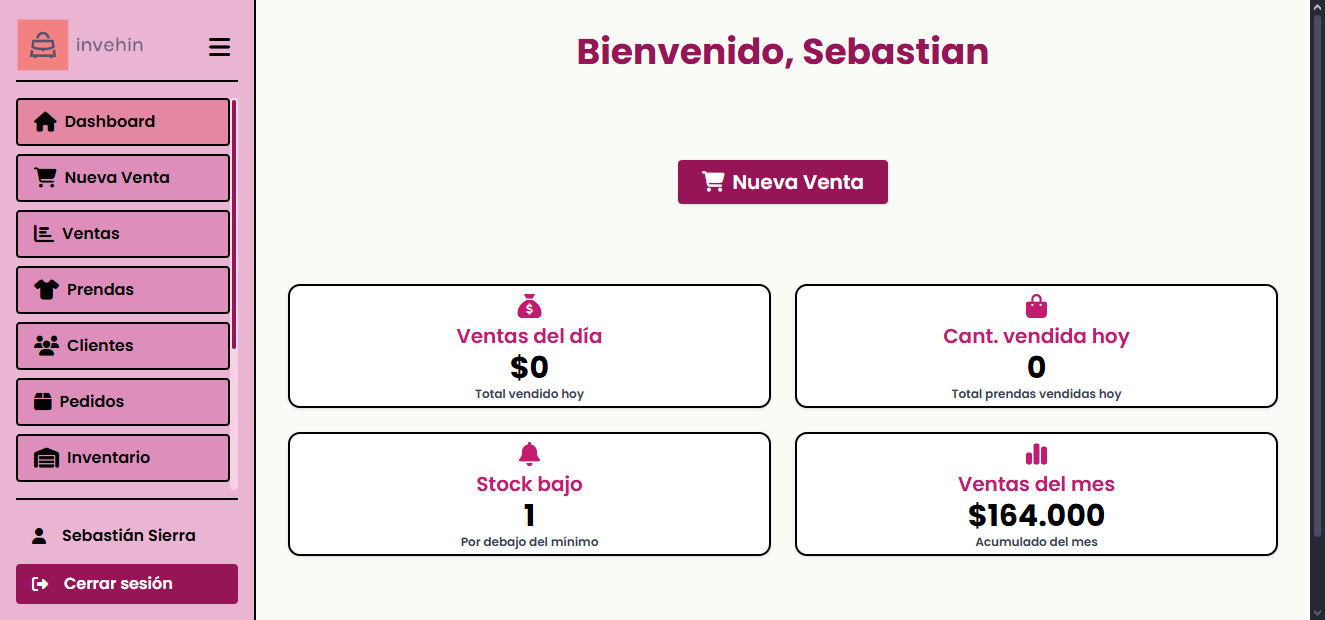
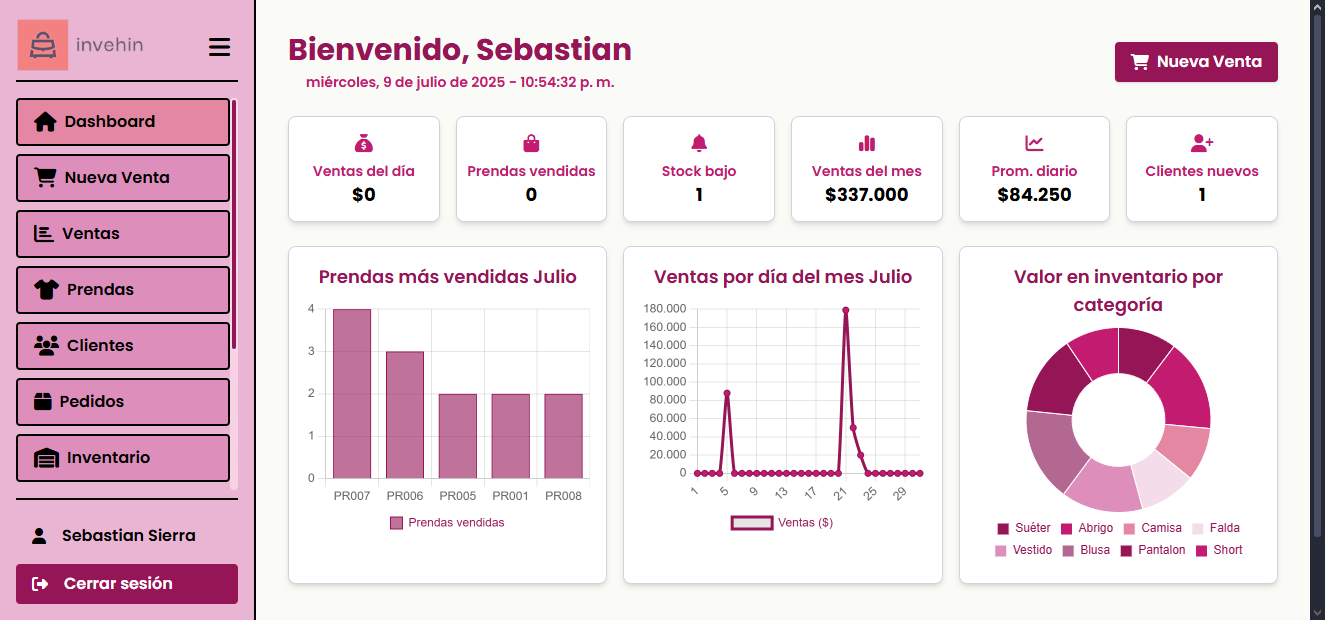
feat(docs): actualizar documentación y agregar manuales docs(readme): agregar sección sobre funcionalidades adicionales docs(licencia): actualizar sección de licencia con detalles de uso no comercial style(assets): agregar imágenes de productos y actualizar dashboard

diff --git a/README.md b/README.md
@@ -21,8 +21,8 @@ Este sistema se encuentra actualmente en desarrollo activo y en proceso de mejor
 ## 📄 Documentación
 
 - [📸 Capturas del sistema](docs/Capturas.md)
-- [🧠 Manual técnico (desarrolladores)](docs/ManualTecnico.md) *(próximamente)*
-- [👥 Manual de usuario (uso del sistema)](docs/ManualUsuario.md) *(próximamente)*
+- [🧠 Manual técnico (desarrolladores)](docs/ManualTecnico.md)
+- [👥 Manual de usuario (uso del sistema)](docs/ManualUsuario.md)
 - [🧑 Autores y créditos](docs/Autores.md)
 
 ---
@@ -61,9 +61,9 @@ Este sistema se encuentra actualmente en desarrollo activo y en proceso de mejor
 
 ## 💥 Vistas principales
 
-| Login                         | Dashboard                      | Registrar Venta                |
+| Dashboard                         | Listado de Prendas                      | Registrar Venta                |
 |------------------------------|--------------------------------|--------------------------------|
-| ![Login](assets/login.png)   | ![Dashboard](assets/dashboard.png) | ![Registrar Venta](assets/registrar-venta.png) |
+| ![Dashboard](assets/dashboard.png)   | ![Dashboard](assets/listado-prendas.png) | ![Registrar Venta](assets/registrar-venta.png) |
 
 ---
 
@@ -76,5 +76,25 @@ Para más información o colaboración: [sebsirra13@gmail.com](mailto\:sebsirra1
 
 ## 📜 Licencia
 
-Proyecto realizado como ejercicio de desarrollo y consolidación de habilidades en el diseño de sistemas de información empresariales.\
-Se prohíbe su uso con fines comerciales sin autorización expresa.
+Este proyecto está realizado como un ejercicio de desarrollo y consolidación de habilidades en el diseño de sistemas de información empresariales.
+
+### Términos y Condiciones
+
+El uso de este software está permitido únicamente con fines educativos y no comerciales. El proyecto es de **código abierto**, pero se prohíbe su uso con fines comerciales sin una **autorización expresa** de los autores.
+
+### Licencia
+
+Este proyecto se distribuye bajo la **Licencia Creative Commons Attribution-NonCommercial 4.0 International License (CC BY-NC 4.0)**.
+
+#### Condiciones principales de la licencia CC BY-NC 4.0:
+
+1. **Uso del código**: Puedes usar, modificar y distribuir el código **siempre que sea con fines no comerciales**.
+2. **Propiedad intelectual**: El software no transfiere derechos de propiedad intelectual, y se mantiene la autoría de los desarrolladores.
+3. **Distribución**: Si distribuyes el código, debes incluir un archivo de licencia que detalle los términos de la **Licencia CC BY-NC 4.0**.
+4. **Marca registrada**: El uso de la marca o nombre del proyecto está prohibido sin permiso por escrito.
+
+### Limitación de responsabilidad
+
+El proyecto se ofrece "tal cual" y no ofrece garantías explícitas ni implícitas de ningún tipo. Los autores no se hacen responsables de ningún daño, pérdida o inconveniente resultante del uso del software.
+
+Para más detalles sobre la licencia, consulta el archivo completo en [Creative Commons BY-NC 4.0 License](https://creativecommons.org/licenses/by-nc/4.0/) o el archivo [**`LICENSE.txt`**](LICENSE.txt) incluido en este repositorio.

diff --git a/docs/ManualTecnico.md b/docs/ManualTecnico.md
@@ -1,0 +1,74 @@
+
+# 🧠 Manual Técnico – INVEHIN
+
+## 🛠 Requisitos del Proyecto
+
+Este proyecto está construido usando las siguientes tecnologías:
+
+- **Java 21** para el desarrollo backend.
+- **JSP & Servlets** para la arquitectura web.
+- **Apache Tomcat** como servidor web.
+- **MySQL 8** para la base de datos.
+- **JDBC** para la conexión entre el backend y la base de datos.
+- **Apache POI & iTextPDF** para la generación de reportes en formato Excel y PDF.
+
+## 📂 Estructura del Proyecto
+
+El proyecto está organizado en las siguientes carpetas:
+
+- **`src/`**: Contiene todo el código fuente de Java.
+    - **`Entidades/`**: Clases que representan las entidades del sistema.
+    - **`Interfaces/`**: Interfaces que definen los contratos del sistema.
+    - **`Logica/`**: Clases de la lógica del negocio.
+    - **`servlets/`**: Contiene los servlets para manejar las peticiones HTTP.
+    - **`Utils/`**: Clases auxiliares y utilidades.
+- **`sql/`**: Contiene los scripts SQL para la creación de la base de datos y sus procedimientos.
+- **`web/`**: Archivos JSP y otros recursos para la interfaz de usuario.
+
+## 💻 Instalación
+
+1. Clona el repositorio:
+
+   ```bash
+   git clone https://github.com/SebastianSierra15/Invehin.git
+   ```
+
+2. Crea la base de datos ejecutando el script SQL ubicado en:
+
+   ```
+   sql/DB_INVEHIN.sql
+   ```
+
+3. Ajusta las credenciales de la base de datos en el archivo:
+
+   ```
+   src/java/Entidades/DBConexion.java
+   ```
+
+4. Ejecuta el proyecto en NetBeans o despliega el archivo `.war` en Apache Tomcat.
+
+## 🚀 Contribuciones
+
+Si deseas contribuir al proyecto, por favor sigue estos pasos:
+
+1. Realiza un fork del proyecto.
+2. Crea una rama con tu funcionalidad o corrección de errores.
+3. Realiza un pull request explicando los cambios realizados.
+
+## 🧑💻 Clases Importantes
+
+Algunas clases clave del sistema incluyen:
+
+- **`ECategoria.java`**: Representa las categorías de productos.
+- **`ECliente.java`**: Representa a los clientes.
+- **`EVenta.java`**: Representa las ventas realizadas en el sistema.
+
+Para más detalles, revisa el código en el repositorio.
+
+## 📊 Generación de Reportes
+
+Este sistema utiliza **Apache POI** y **iTextPDF** para la generación de reportes en formato **Excel** y **PDF**, lo cual se gestiona en las clases dentro del paquete `Utils/GeneradorReportes`.
+
+---
+
+Si tienes alguna pregunta sobre cómo contribuir o sobre el código, no dudes en ponerte en contacto con el equipo de desarrollo.

diff --git a/docs/ManualUsuario.md b/docs/ManualUsuario.md
@@ -1,0 +1,67 @@
+
+# 👥 Manual de Usuario – INVEHIN
+
+## 🚪 Acceso al Sistema
+
+1. Abre tu navegador y dirígete a la siguiente URL:
+
+   ```
+   http://localhost:8080/Invehin
+   ```
+
+2. Ingresa con tu **correo electrónico** y **contraseña**.
+
+   ![Login](../assets/login.png)
+
+## 📊 Dashboard
+
+Al ingresar al sistema, serás redirigido al **Dashboard** donde podrás ver estadísticas clave como:
+
+- **Ventas del día**
+- **Ventas del mes**
+- **Stock bajo**
+
+   ![Dashboard](../assets/dashboard.png)
+
+## 🛒 Registro de Venta
+
+Para registrar una nueva venta, sigue estos pasos:
+
+1. Dirígete al módulo de **Ventas**.
+2. Selecciona los productos que deseas vender.
+3. Introduce los datos del cliente.
+4. Digita el monto recibido.
+5. Haz clic en **Registrar Venta**.
+
+   ![Registrar Venta](../assets/registrar-venta.png)
+
+## 🧑🤝🧑 Gestión de Clientes
+
+Puedes gestionar los **clientes** desde el módulo correspondiente. Desde allí, podrás agregar nuevos clientes, editar la información existente y ver los clientes registrados.
+
+   ![Clientes](../assets/clientes.png)
+
+## 📚 Reportes
+
+El sistema genera reportes de **ventas**, **inventarios**, **prendas** y **pedidos** en formatos **PDF** y **Excel**. Para generar un reporte:
+
+1. Selecciona el tipo de reporte (ventas, inventarios, etc.).
+2. Define el **rango de fechas**.
+3. Descarga el archivo en el formato deseado.
+
+---
+
+## 🌟 Otras Funcionalidades del Sistema
+
+INVEHIN no solo se limita a las funciones mencionadas en este manual. El sistema ofrece muchas más funcionalidades para facilitar la gestión de tu negocio, tales como:
+
+- **Gestión de proveedores**: Control de tus proveedores y los productos que suministran.
+- **Control de categorías**: Organiza tus productos por categorías para un manejo más eficiente.
+- **Gestión de inventarios**: Mantén un registro actualizado de todas las existencias de tus productos.
+- **Generación de reportes avanzados**: Crea reportes detallados sobre ventas, inventarios, prendas, y más.
+- **Administración de usuarios**: Gestiona el acceso de diferentes empleados y establece permisos según sus roles.
+
+Estas son solo algunas de las funcionalidades que INVEHIN ofrece para optimizar la operación de tu tienda. 
+Si tienes alguna pregunta sobre el uso del sistema, por favor contacta con el administrador.
+
+---

diff --git a/docs/Capturas.md b/docs/Capturas.md
@@ -4,17 +4,17 @@ A continuación se presenta una galería de las principales interfaces del siste
 
 ---
 
-## 🔐 Pantalla de Inicio de Sesión
+## 🏠 Dashboard de Inicio
 
-![Login](../assets/login.png)
+Visualización de estadísticas clave: ventas del día, stock bajo, ventas del mes, entre otras.
+
+![Dashboard](../assets/dashboard.png)
 
 ---
 
-## 🏠 Dashboard de Inicio
+## 🔐 Pantalla de Inicio de Sesión
 
-Visualización de estadísticas clave: ventas del día, stock bajo, ventas del mes.
-
-![Dashboard](../assets/dashboard.png)
+![Login](../assets/login.png)
 
 ---
 
@@ -39,5 +39,37 @@ Listado completo de ventas con paginación, generación de reportes y filtros.
 Formulario modal para agregar nuevos clientes.
 
 ![Clientes](../assets/clientes.png)
+
+---
+
+## 📦 Inventario
+
+Vista del inventario de productos, con información de existencias.
+
+![Inventario](../assets/inventario.png)
+
+---
+
+## 👕 Listado de Prendas
+
+Visualización de las prendas disponibles con detalles.
+
+![Listado de Prendas](../assets/listado-prendas.png)
+
+---
+
+## 🛍 Pedidos
+
+Módulo para gestionar los pedidos realizados por los clientes.
+
+![Pedidos](../assets/pedidos.png)
+
+---
+
+## 🏷 Categorías
+
+Visualización y gestión de las categorías de productos.
+
+![Categorías](../assets/categorias.png)
 
 ---

diff --git a/docs/Autores.md b/docs/Autores.md
@@ -6,7 +6,7 @@
 
 Desarrollador principal del sistema.
 
-- 🎓 Estudiante de 8º semestre de Ingeniería de Sistemas
+- 🎓 Estudiante de Ingeniería de Sistemas
 - 🎓 Técnico en Sistemas
 - 🧠 Experiencia en desarrollo backend, frontend y bases de datos
 - 🏆 Participante en competencias de programación a nivel nacional y latinoamericano
